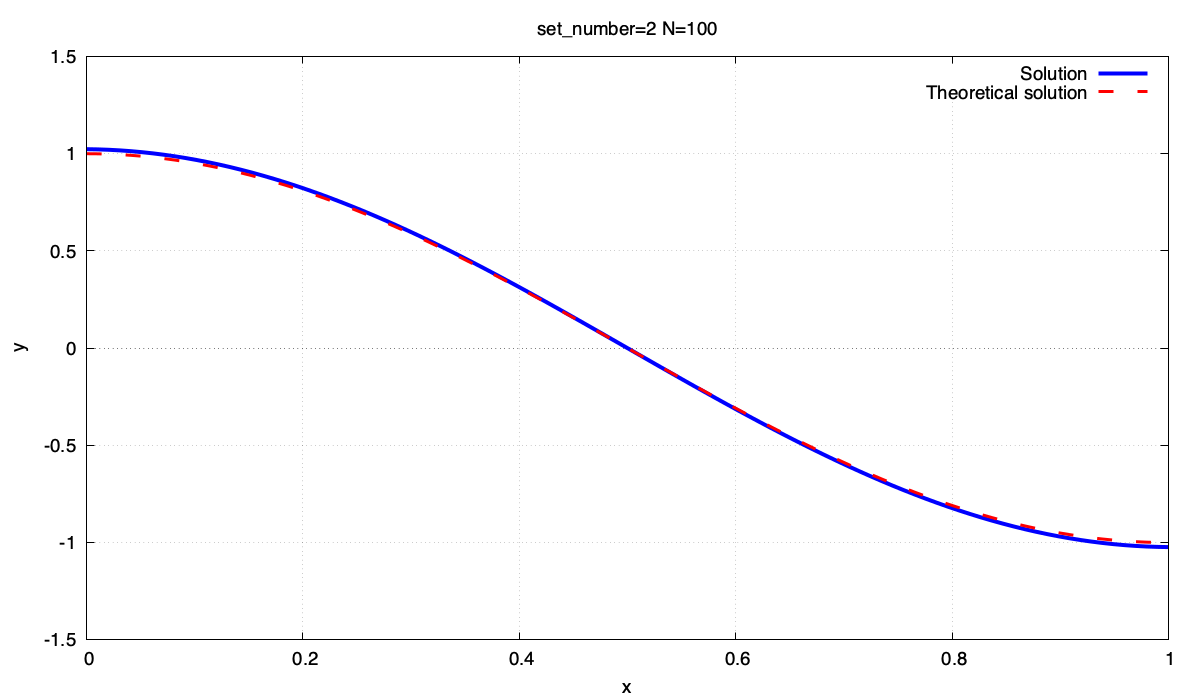
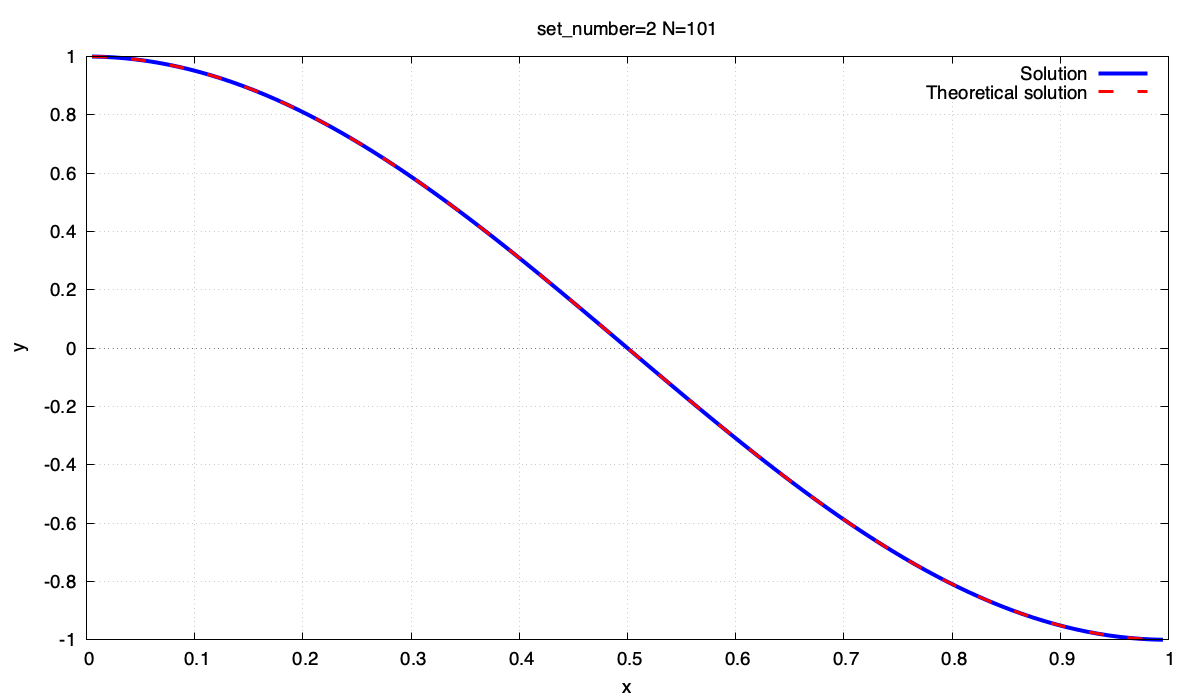
update

diff --git a/task_6_files/task_6.c b/task_6_files/task_6.c
@@ -16,19 +16,20 @@ int main(int argc, char *argv[]) {
     int method, set_number;
     char path[256];
     FILE* file;
+    double (*right_part)(double);
+    double (*p_part)(double);
+    double (*theoretical_solution)(double);
+    double * right_part_vector, * solution, * vector, *a, *b, *c;
 
     assert(argc >= 4);
     assert(sscanf(argv[1], "%d", &N)==1);
     assert(sscanf(argv[2], "%d", &method)==1);
     assert(sscanf(argv[3], "%d", &set_number));
-    
-    double (*right_part)(double);
-    double (*p_part)(double);
-    double (*theoretical_solution)(double);
-    double * right_part_vector = (double*)malloc((N-1)*sizeof(double));
-    double * vector = (double*)malloc((N-1)*sizeof(double));
-    double * solution = (double*)malloc((N-1)*sizeof(double));
-    double *a, *b, *c;
+
+    right_part_vector = (double*)malloc((N-1)*sizeof(double));
+    vector = (double*)malloc((N-1)*sizeof(double));
+    solution = (double*)malloc((N-1)*sizeof(double));
+
     //Парсим путь до файла, куда будем кидать точки
     if (method == 1) {
         snprintf(path, sizeof path, "data_graph/furier/%d.txt", set_number);    
@@ -53,7 +54,7 @@ int main(int argc, char *argv[]) {
     file = fopen(path, "w");
 
     //В 2.91 y1=y0, yN-1=yN => y'0 = 0, y'N-1
-    h = 1.0/(N-2); // Размер шага = длина интервала/количество точке разбиения 
+    h = 1.0/(N-1); // Размер шага = длина интервала/количество точке разбиения 
 
     //Создание сета решения
     switch (set_number) {
@@ -77,9 +78,19 @@ int main(int argc, char *argv[]) {
             theoretical_solution = theoretical_solution_4;
             p_part = p_part_4;
             break;
+        case 5:
+            right_part = right_part_5;
+            theoretical_solution = theoretical_solution_5;
+            p_part = p_part_5;
+            break;
+        case 6:
+            right_part = right_part_6;
+            theoretical_solution = theoretical_solution_6;
+            p_part = p_part_6;
+            break;
     }
     for (int i=0; i < N-1; i++) {
-        right_part_vector[i] = right_part(i*h);
+        right_part_vector[i] = right_part(i*h+h/2);
     }
 
     //Создание матрицы
@@ -97,7 +108,7 @@ int main(int argc, char *argv[]) {
                 a[i] = -1/pow(h,2);
                 c[i] = -1/pow(h,2);
             }
-            b[i] += p_part(i*h);
+            b[i] += p_part(i*h+h/2);
         }
 
     }
@@ -127,14 +138,17 @@ int main(int argc, char *argv[]) {
             }
         }
         for (int k=0; k<N-1; k++)
-            fprintf(file, "%lf %lf %lf\n", h*k, solution[k], theoretical_solution(k*h));
+            fprintf(file, "%lf %lf %lf\n", +h/2+h*k, solution[k], theoretical_solution(+h/2+h*k));
     }
 
     //Метод прогонки
     if (method==2) {
-        solution = progonka(a, b, c, N-1, right_part_vector);
+        if (!(progonka(a, b, c, N-1, right_part_vector, solution) == 0)) {
+            free(a); free(b); free(c); free(solution); free(vector); free(right_part_vector);
+            exit(1);
+        }
         for (int k=0; k<N-1; k++)
-            fprintf(file, "%lf %lf %lf\n", h*k, solution[k], theoretical_solution(k*h));
+            fprintf(file, "%lf %lf %lf\n", +h/2+h*k, solution[k], theoretical_solution(+h/2+h*k));
         free(a); free(b); free(c);
     }
 

diff --git a/utils/utils_matrix.c b/utils/utils_matrix.c
@@ -12,9 +12,10 @@ double * multiply_matrix_and_vector(double* matrix, int n, int m, double* vector
     //n - число строк матрицы 
     //m - число столбцов матрицы
     //k - рамзерность вектора
-    assert(m == k);
     double row_by_column_result = 0;
     double * result = (double*)malloc(k * sizeof(double));
+    
+    assert(m == k);
 
     for (int i=0; i<n; i++) {
         row_by_column_result = 0;
@@ -85,11 +86,10 @@ double * make_gram_matrix(double ** all_vectors, int N, int n) {
     return result;
 }
 
-double * progonka(double* a, double* b, double* c, int n, double* d) {
+int progonka(double* a, double* b, double* c, int n, double* d, double* x) {
     
     double *al = (double*)malloc(sizeof(double)*n);
     double *be = (double*)malloc(sizeof(double)*n);
-    double *x  = (double*)malloc(sizeof(double)*n);
 
     if (fabs(b[0]) <= 1e-8) {
         fprintf(stderr, "Error: division by 0, can't find only one solution\n");
@@ -98,7 +98,7 @@ double * progonka(double* a, double* b, double* c, int n, double* d) {
     if (n == 1) {
         x[0] = d[0] / b[0];
         free(al); free(be);
-        return x;
+        return 0;
     }
 
     al[0] = -c[0] / b[0];
@@ -108,7 +108,7 @@ double * progonka(double* a, double* b, double* c, int n, double* d) {
         double g = b[i] + a[i-1]*al[i-1];
         if (fabs(g) <= 1e-8) {
             fprintf(stderr, "Error: division by 0, can't find only one solution\n");
-            exit(1);
+            return 1;
         }
         al[i] = -c[i] / g;
         be[i] = (d[i] - a[i-1]*be[i-1]) / g;
@@ -119,7 +119,7 @@ double * progonka(double* a, double* b, double* c, int n, double* d) {
         double g = b[i] + a[i-1]*al[i-1];
         if (fabs(g) <= 1e-8) {
             fprintf(stderr, "Error: division by 0, can't find only one solution\n");
-            exit(1);
+            return 1;
         }
         be[i] = (d[i] - a[i-1]*be[i-1]) / g;
     }
@@ -129,5 +129,5 @@ double * progonka(double* a, double* b, double* c, int n, double* d) {
         x[i] = al[i]*x[i+1] + be[i];
 
     free(al); free(be);
-    return x;
+    return 0;
 }

diff --git a/utils/second_order_ode.c b/utils/second_order_ode.c
@@ -60,3 +60,31 @@ double p_part_3 (double x) {
 double theoretical_solution_3 (double x) {
     return (pow(M_PI,2) +1)/(pow(M_PI,2))*cos(M_PI * x);
 }
+
+double right_part_5 (double x) {
+    return (-2.0 + 8.0*x - 0.5*pow(x,2) - 6.0*pow(x,3) -2.5*pow(x,4) + pow(x,5))*exp(x);
+}
+
+
+double p_part_5 (double x) {
+    (void) x;
+    return 0.5 + x;
+}
+
+double theoretical_solution_5 (double x) {
+    return pow(x,2) * pow((1-x),2) * exp(x);
+}
+
+double right_part_6 (double x) {
+    return (-2.0 + 8.0*x - 0.5*pow(x,2) - 6.0*pow(x,3) -2.5*pow(x,4) + pow(x,5))*exp(x) + (-x+0.5)*(pow(x,2) * pow((1-x),2) * exp(x)); 
+}
+
+
+double p_part_6 (double x) {
+    (void) x;
+    return 1;
+}
+
+double theoretical_solution_6 (double x) {
+    return pow(x,2) * pow((1-x),2) * exp(x);
+}

diff --git a/utils/second_order_ode.h b/utils/second_order_ode.h
@@ -5,13 +5,19 @@ double right_part_1 (double);
 double right_part_2 (double);
 double right_part_3 (double);
 double right_part_4 (double);
+double right_part_5 (double);
+double right_part_6 (double);
 double theoretical_solution_1 (double x);
 double theoretical_solution_2 (double x);
 double theoretical_solution_3 (double x);
 double theoretical_solution_4 (double x);
+double theoretical_solution_5 (double x);
+double theoretical_solution_6 (double x);
 double p_part_1 (double x);
 double p_part_2 (double x);
 double p_part_3 (double x);
 double p_part_4 (double x);
+double p_part_5 (double x);
+double p_part_6 (double x);
 
 #endif

diff --git a/utils/utils_matrix.h b/utils/utils_matrix.h
@@ -7,6 +7,6 @@ void print_matrix(double* matrix, int n, int m, int limit_n, int limit_m);
 void print_vector_horizontally(double* vector, int n, int limit_n);
 double * make_gram_matrix(double ** all_vectors, int N, int n);
 double norm(double * vector, int n);
-double * progonka(double* a, double* b, double* c, int n, double* d);
+int progonka(double* a, double* b, double* c, int n, double* d, double* x);
 
 #endif
